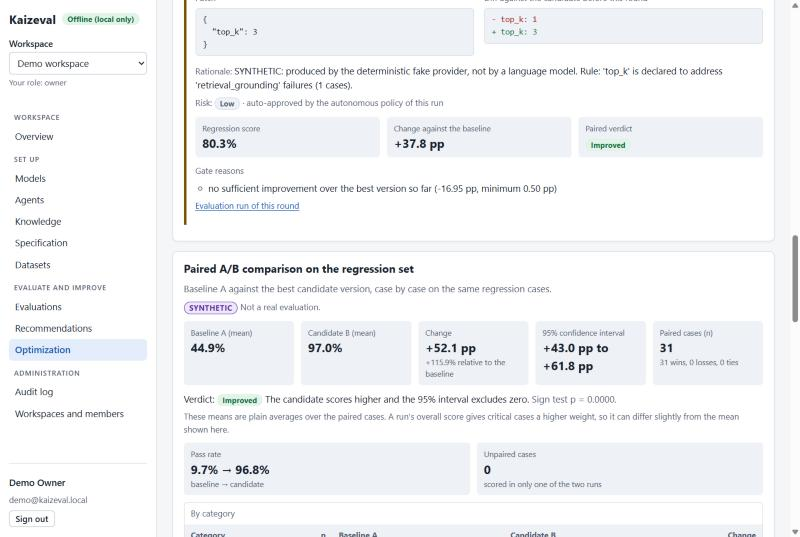
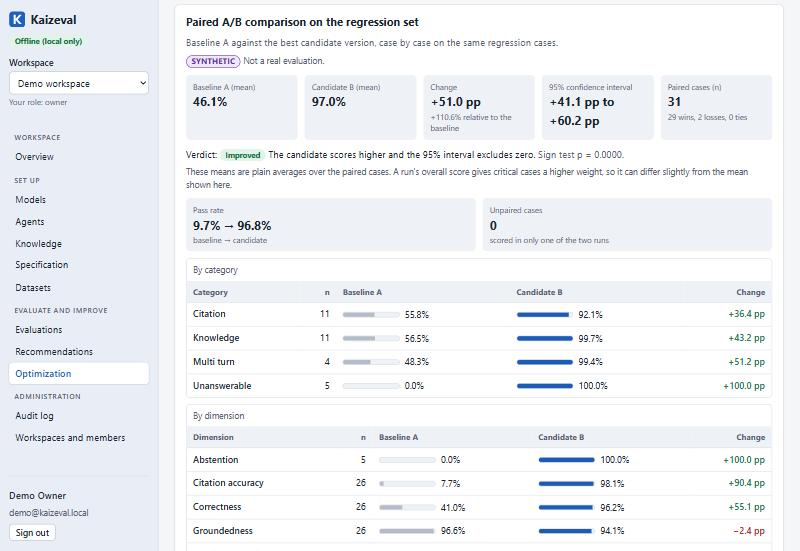
Console polish: shell palette, timeline rail, themed browser surfaces
A tinted navigation rail with the product mark; a timeline with status
markers instead of thick coloured side stripes; hairline alerts; themed
selection, caret, scrollbars and focus ring; tabular numerals; a readable
text measure; a drawn expander chevron; larger touch targets; and
reduced-motion support. Screenshots refreshed. No behaviour changed.

diff --git a/web/src/styles.css b/web/src/styles.css
@@ -23,7 +23,13 @@
   --info-bg: #e3edfb;
   --synthetic: #5b2fa6;
   --synthetic-bg: #efe7fb;
+  --shell: #e9eef6;
+  --shell-hover: #dbe3ef;
+  --ring: #1d5bb8;
+  --selection: #c9dcf8;
   --shadow: 0 1px 2px rgba(20, 30, 45, 0.06);
+  --shadow-raised: 0 12px 32px -8px rgba(20, 30, 45, 0.28), 0 2px 6px rgba(20, 30, 45, 0.08);
+  --ease: cubic-bezier(0.16, 1, 0.3, 1);
   --radius: 8px;
   --font: system-ui, -apple-system, "Segoe UI", Roboto, "Helvetica Neue", Arial, "Noto Sans", sans-serif;
   --mono: ui-monospace, SFMono-Regular, Menlo, Consolas, "Liberation Mono", monospace;
@@ -52,7 +58,12 @@
     --info-bg: #1d2c44;
     --synthetic: #c7adff;
     --synthetic-bg: #2c2346;
+    --shell: #141a23;
+    --shell-hover: #1e2733;
+    --ring: #86b4ff;
+    --selection: #2b4673;
     --shadow: none;
+    --shadow-raised: 0 16px 40px -8px rgba(0, 0, 0, 0.6);
   }
 }
 
@@ -64,6 +75,14 @@
 
 html {
   -webkit-text-size-adjust: 100%;
+  accent-color: var(--accent);
+  caret-color: var(--accent);
+  scrollbar-color: var(--border-strong) transparent;
+}
+
+::selection {
+  background: var(--selection);
+  color: var(--text);
 }
 
 body {
@@ -78,19 +97,23 @@ body {
 h1, h2, h3, h4 {
   margin: 0;
   line-height: 1.25;
+  text-wrap: balance;
 }
 
-h1 { font-size: 1.5rem; }
+h1 { font-size: 1.5rem; letter-spacing: -0.015em; }
 h2 { font-size: 1.1rem; }
 h3 { font-size: 0.98rem; margin-top: 1rem; margin-bottom: 0.4rem; }
 h4 { font-size: 0.9rem; margin-top: 0.9rem; margin-bottom: 0.3rem; color: var(--muted); text-transform: uppercase; letter-spacing: 0.03em; }
 
 p { margin: 0.4rem 0; }
+/* Running text keeps a readable measure even in a wide card; tables and grids are not affected. */
+.card > p, .box > p, .dialog-body p, .item p, .alert p, .page-header p { max-width: 75ch; }
 ul, ol { margin: 0.4rem 0; padding-left: 1.3rem; }
 
 a {
   color: var(--accent);
-  text-underline-offset: 2px;
+  text-underline-offset: 0.18em;
+  text-decoration-thickness: from-font;
 }
 
 a:hover { color: var(--accent-hover); }
@@ -110,7 +133,7 @@ code.wrap, .wrap { overflow-wrap: anywhere; word-break: break-word; }
 .nowrap { white-space: nowrap; }
 
 :focus-visible {
-  outline: 3px solid var(--accent);
+  outline: 2px solid var(--ring);
   outline-offset: 2px;
   border-radius: 4px;
 }
@@ -141,7 +164,7 @@ code.wrap, .wrap { overflow-wrap: anywhere; word-break: break-word; }
 .skip-link:focus { left: 0.5rem; top: 0.5rem; }
 
 .sidebar {
-  background: var(--surface);
+  background: var(--shell);
   border-right: 1px solid var(--border);
   padding: 1rem 0.9rem;
   display: flex;
@@ -161,12 +184,18 @@ code.wrap, .wrap { overflow-wrap: anywhere; word-break: break-word; }
 }
 
 .brand {
+  display: inline-flex;
+  align-items: center;
+  gap: 0.5rem;
   font-size: 1.2rem;
   font-weight: 700;
-  letter-spacing: 0.01em;
+  letter-spacing: -0.01em;
   color: var(--text);
   text-decoration: none;
 }
+
+.brand:hover { color: var(--text); }
+.brand-mark { width: 1.35em; height: 1.35em; border-radius: 22%; flex: none; }
 
 .btn.menu-toggle { display: none; margin-left: auto; }
 
@@ -198,14 +227,16 @@ code.wrap, .wrap { overflow-wrap: anywhere; word-break: break-word; }
   border-radius: 6px;
   color: var(--text);
   text-decoration: none;
+  transition: background-color 120ms var(--ease);
 }
 
-.nav-link:hover { background: var(--surface-2); color: var(--text); }
+.nav-link:hover { background: var(--shell-hover); color: var(--text); }
 
 .nav-link.active {
-  background: var(--accent-soft);
+  background: var(--surface);
   color: var(--accent);
   font-weight: 600;
+  box-shadow: var(--shadow), 0 0 0 1px var(--border);
 }
 
 .sidebar-user {
@@ -327,7 +358,7 @@ code.wrap, .wrap { overflow-wrap: anywhere; word-break: break-word; }
 }
 
 .stat-label { font-size: 0.78rem; color: var(--muted); }
-.stat-value { font-size: 1.2rem; font-weight: 650; overflow-wrap: anywhere; }
+.stat-value { font-size: 1.2rem; font-weight: 650; overflow-wrap: anywhere; font-variant-numeric: tabular-nums; letter-spacing: -0.01em; }
 .stat-note { font-size: 0.78rem; color: var(--muted); }
 
 .kv {
@@ -398,7 +429,7 @@ code.wrap, .wrap { overflow-wrap: anywhere; word-break: break-word; }
 
 .filters .field { margin-bottom: 0; min-width: min(100%, 220px); }
 .filters > .btn { margin-bottom: 1px; }
-time { white-space: nowrap; }
+time { white-space: nowrap; font-variant-numeric: tabular-nums; }
 
 .flag-row { display: flex; gap: 0.35rem; flex-wrap: wrap; margin: 0.4rem 0; }
 td .flag-row { margin: 0; }
@@ -423,9 +454,11 @@ summary { cursor: pointer; color: var(--accent); }
   cursor: pointer;
   text-decoration: none;
   line-height: 1.3;
+  transition: background-color 120ms var(--ease), border-color 120ms var(--ease), transform 80ms var(--ease);
 }
 
 .btn:hover { background: var(--surface-2); color: var(--text); }
+.btn:active:not(:disabled) { transform: translateY(1px); }
 .btn:disabled { opacity: 0.55; cursor: not-allowed; }
 
 .btn-primary {
@@ -492,6 +525,14 @@ input[type="file"], select, textarea {
   min-width: 0;
 }
 
+input:hover:not(:disabled), select:hover:not(:disabled), textarea:hover:not(:disabled) { border-color: var(--muted); }
+
+input:focus-visible, select:focus-visible, textarea:focus-visible {
+  border-color: var(--ring);
+  outline-offset: 0;
+}
+
+::placeholder { color: var(--muted); opacity: 1; }
 textarea { resize: vertical; }
 textarea.mono { font-family: var(--mono); font-size: 0.85rem; }
 input:disabled, select:disabled, textarea:disabled { opacity: 0.6; }
@@ -521,8 +562,7 @@ td select { width: auto; }
 .alert {
   border-radius: 6px;
   border: 1px solid var(--border);
-  border-left-width: 4px;
-  padding: 0.5rem 0.8rem;
+  padding: 0.55rem 0.85rem;
   margin: 0.6rem 0;
   overflow-wrap: anywhere;
 }
@@ -543,7 +583,7 @@ td select { width: auto; }
 .synthetic-banner {
   background: var(--synthetic-bg);
   color: var(--synthetic);
-  border: 2px solid var(--synthetic);
+  border: 1px solid var(--synthetic);
   border-radius: var(--radius);
   padding: 0.6rem 0.9rem;
   margin: 0 0 1rem;
@@ -551,7 +591,7 @@ td select { width: auto; }
 }
 
 .blocked {
-  border: 2px solid var(--bad);
+  border: 1px solid var(--bad);
   background: var(--bad-bg);
   border-radius: var(--radius);
   padding: 0.8rem 1rem;
@@ -575,7 +615,16 @@ td select { width: auto; }
 @keyframes spin { to { transform: rotate(360deg); } }
 
 @media (prefers-reduced-motion: reduce) {
-  .spinner { animation: none; }
+  .spinner, .dialog[open] { animation: none; }
+  *, *::before, *::after { transition-duration: 0s !important; }
+}
+
+/* Fingers need larger targets than a mouse pointer. */
+@media (pointer: coarse) {
+  .btn, .nav-link, .tab, summary { min-height: 2.75rem; }
+  .btn-small { min-height: 2.5rem; padding-inline: 0.8rem; }
+  .nav-link { display: flex; align-items: center; }
+  .check input { width: 1.25rem; height: 1.25rem; }
 }
 
 .empty {
@@ -658,6 +707,7 @@ table.data thead th {
 }
 
 table.data tbody th { font-weight: 600; }
+table.data tbody tr:not(.row-detail):hover > * { background-image: linear-gradient(color-mix(in srgb, var(--text) 4%, transparent) 0 0); }
 table.data tbody tr:last-child > * { border-bottom: none; }
 table.data tfoot th, table.data tfoot td { border-top: 2px solid var(--border-strong); border-bottom: none; font-weight: 650; }
 table.data .num { text-align: right; font-variant-numeric: tabular-nums; white-space: nowrap; }
@@ -688,13 +738,24 @@ table.data pre.code { margin: 0; }
   flex: none;
   width: 1.25rem;
   height: 1.25rem;
-  line-height: 1.15rem;
-  text-align: center;
   border: 1px solid var(--border-strong);
   border-radius: 4px;
   color: var(--accent);
-  font-weight: 700;
+  display: grid;
+  place-items: center;
 }
+
+.expander-icon::before {
+  content: "";
+  width: 0.38rem;
+  height: 0.38rem;
+  border: solid currentColor;
+  border-width: 0 1.5px 1.5px 0;
+  transform: translateX(-1px) rotate(-45deg);
+  transition: transform 160ms var(--ease);
+}
+
+.expander-icon.open::before { transform: translateY(-1px) rotate(45deg); }
 
 .pager {
   display: flex;
@@ -765,7 +826,7 @@ pre.code {
 
 .quote {
   display: block;
-  border-left: 3px solid var(--border-strong);
+  border-left: 1px solid var(--border-strong);
   padding-left: 0.6rem;
   margin: 0.2rem 0;
 }
@@ -838,12 +899,12 @@ pre.code {
 .chunk { border-top: 1px solid var(--border); padding: 0.6rem 0; }
 .chunk:first-child { border-top: none; }
 .chunk-text { white-space: pre-wrap; overflow-wrap: anywhere; }
-.chunk-flagged { background: var(--warn-bg); border-left: 4px solid var(--warn); padding-left: 0.7rem; }
+.chunk-flagged { background: var(--warn-bg); border: 1px solid var(--warn); border-radius: 6px; padding: 0.6rem 0.7rem; }
 
 .conversation { list-style: none; padding: 0; margin: 0.3rem 0; }
 .turn { border-radius: 6px; padding: 0.45rem 0.7rem; margin-bottom: 0.4rem; border: 1px solid var(--border); background: var(--surface); }
 .turn p { white-space: pre-wrap; overflow-wrap: anywhere; }
-.turn-agent { border-left: 4px solid var(--accent); }
+.turn-agent { background: var(--accent-soft); border-color: color-mix(in srgb, var(--accent) 35%, var(--border)); }
 .turn-role { font-size: 0.75rem; font-weight: 650; color: var(--muted); text-transform: uppercase; letter-spacing: 0.04em; }
 .result-detail {
   min-width: 0;
@@ -856,17 +917,49 @@ pre.code {
 .timeline { list-style: none; padding: 0; margin: 0; }
 
 .timeline-item {
-  border-left: 4px solid var(--border-strong);
-  padding: 0.2rem 0 0.9rem 0.9rem;
-  margin-bottom: 0.6rem;
+  --marker: var(--border-strong);
+  position: relative;
+  padding: 0 0 1.4rem 1.6rem;
 }
 
-.timeline-item.outcome-kept { border-left-color: var(--ok); }
-.timeline-item.outcome-rolled_back, .timeline-item.outcome-invalid { border-left-color: var(--warn); }
-.timeline-item.outcome-rejected { border-left-color: var(--bad); }
-.timeline-item.outcome-proposed, .timeline-item.outcome-approved, .timeline-item.outcome-applied { border-left-color: var(--info); }
+/* the rail */
+.timeline-item::before {
+  content: "";
+  position: absolute;
+  left: 0.3rem;
+  top: 0.55rem;
+  bottom: -0.35rem;
+  width: 2px;
+  margin-left: -0.5px;
+  background: var(--border);
+}
 
-.pending { border: 2px solid var(--warn); }
+.timeline-item:last-child::before { display: none; }
+.timeline-item:last-child { padding-bottom: 0.2rem; }
+
+/* the status marker */
+.timeline-item::after {
+  content: "";
+  position: absolute;
+  left: 0;
+  top: 0.3rem;
+  width: 0.65rem;
+  height: 0.65rem;
+  border-radius: 50%;
+  background: var(--marker);
+  box-shadow: 0 0 0 3px var(--surface);
+}
+
+.timeline-item.outcome-kept { --marker: var(--ok); }
+.timeline-item.outcome-rolled_back, .timeline-item.outcome-invalid, .timeline-item.outcome-repeated { --marker: var(--warn); }
+.timeline-item.outcome-rejected { --marker: var(--bad); }
+.timeline-item.outcome-proposed, .timeline-item.outcome-approved, .timeline-item.outcome-applied { --marker: var(--info); }
+
+/* A card that waits for a person: tinted ground and a hairline in the accent, not a heavy frame. */
+.pending {
+  border-color: color-mix(in srgb, var(--accent) 45%, var(--border));
+  background: color-mix(in srgb, var(--accent-soft) 45%, var(--surface));
+}
 .pending h2 { margin-bottom: 0.5rem; }
 
 .danger-zone {
@@ -885,9 +978,15 @@ pre.code {
   color: var(--text);
   padding: 1.1rem 1.2rem;
   width: min(92vw, 520px);
+  box-shadow: var(--shadow-raised);
 }
 
+.dialog[open] { animation: dialog-in 180ms var(--ease); }
 .dialog::backdrop { background: rgba(10, 15, 25, 0.55); }
+
+@keyframes dialog-in {
+  from { opacity: 0; transform: translateY(6px) scale(0.985); }
+}
 .dialog-body { margin: 0.6rem 0 1rem; }
 .dialog-actions { display: flex; justify-content: flex-end; gap: 0.5rem; flex-wrap: wrap; }
 

diff --git a/web/src/pages/EvaluationDetail.tsx b/web/src/pages/EvaluationDetail.tsx
@@ -351,7 +351,7 @@ function ResultsTable({ runId }: { runId: string }) {
                       <td className="cell-wide">
                         <button type="button" className="expander" aria-expanded={open}
                           onClick={() => setExpanded(open ? null : result.id)}>
-                          <span className="expander-icon" aria-hidden="true">{open ? "−" : "+"}</span>
+                          <span className={open ? "expander-icon open" : "expander-icon"} aria-hidden="true" />
                           <span>{result.case?.turns?.[0]?.content ?? `Case ${result.case_id.slice(0, 8)}`}</span>
                         </button>
                       </td>

diff --git a/web/src/pages/Login.tsx b/web/src/pages/Login.tsx
@@ -89,7 +89,7 @@ export function LoginPage() {
   return (
     <main className="login">
       <div className="login-card">
-        <h1 className="brand">Kaizeval</h1>
+        <h1 className="brand"><img className="brand-mark" src="/favicon.svg" alt="" />Kaizeval</h1>
         <p className="muted">Evaluate, diagnose and safely optimize AI agents on your own infrastructure.</p>
         <ErrorNote error={session.error} />
         <div className={signupOpen ? "login-forms two" : "login-forms"}>

diff --git a/web/src/components/Layout.tsx b/web/src/components/Layout.tsx
@@ -71,6 +71,7 @@ export function Layout() {
       <aside className="sidebar">
         <div className="sidebar-top">
           <NavLink to="/" className="brand" end>
+            <img className="brand-mark" src="/favicon.svg" alt="" />
             Kaizeval
           </NavLink>
           <ModeBadge />

diff --git a/CHANGELOG.md b/CHANGELOG.md
@@ -42,6 +42,10 @@ All notable changes to this project are documented here. The format follows
   test-suite on PostgreSQL.
 
 ### Changed
+- Console polish: a tinted navigation rail with the product mark, a timeline with status markers
+  instead of coloured side stripes, hairline alerts, themed selection, caret, scrollbars and
+  focus ring, tabular numerals, a readable text measure, larger touch targets, and reduced-motion
+  support. No behaviour changed.
 - The improvement loop has no fixed number of rounds any more. It runs until the target is
   reached or until three cycles in a row leave the score unchanged (`stagnation_rounds: 3`).
   `max_rounds` is now an optional extra limit.
